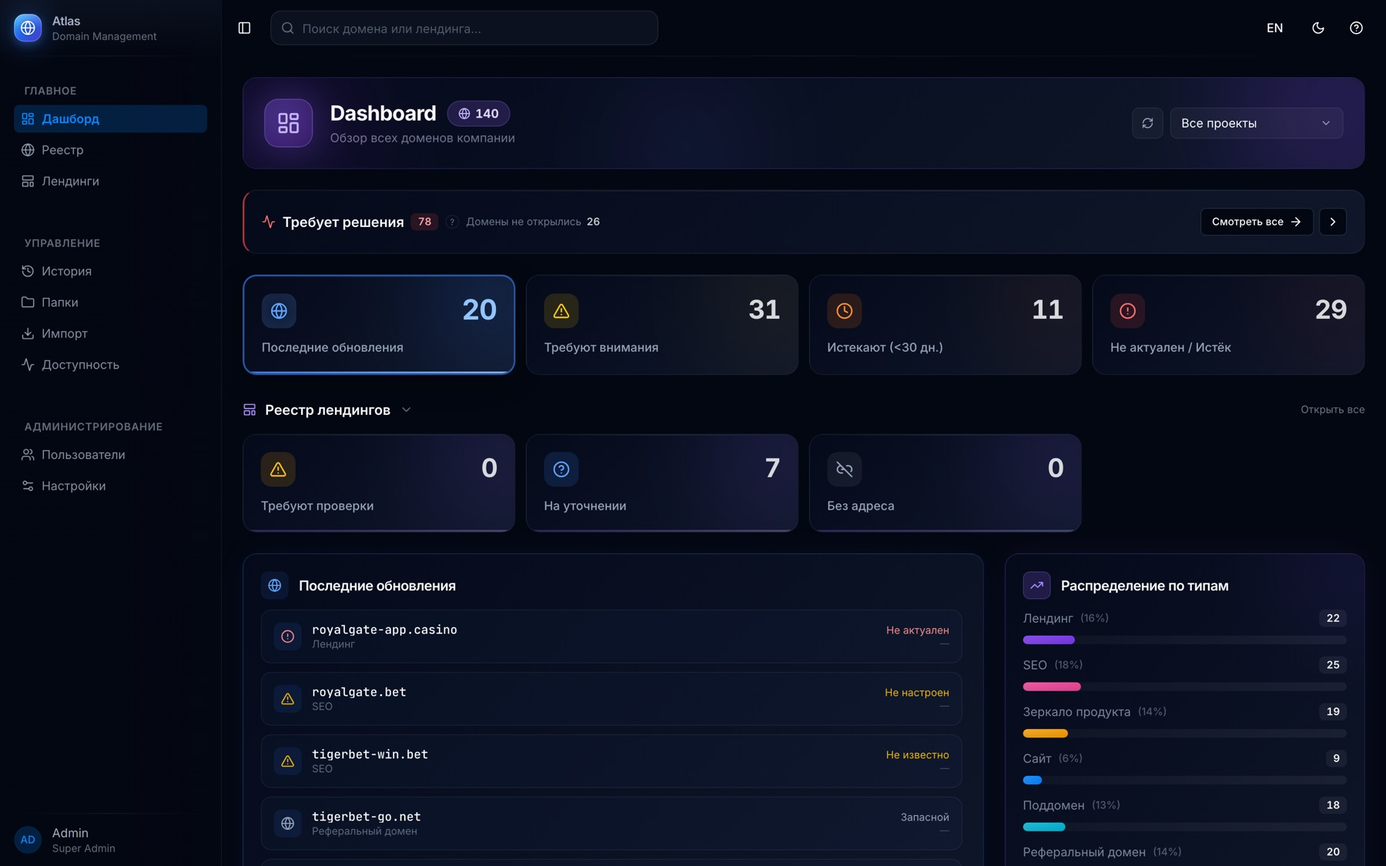
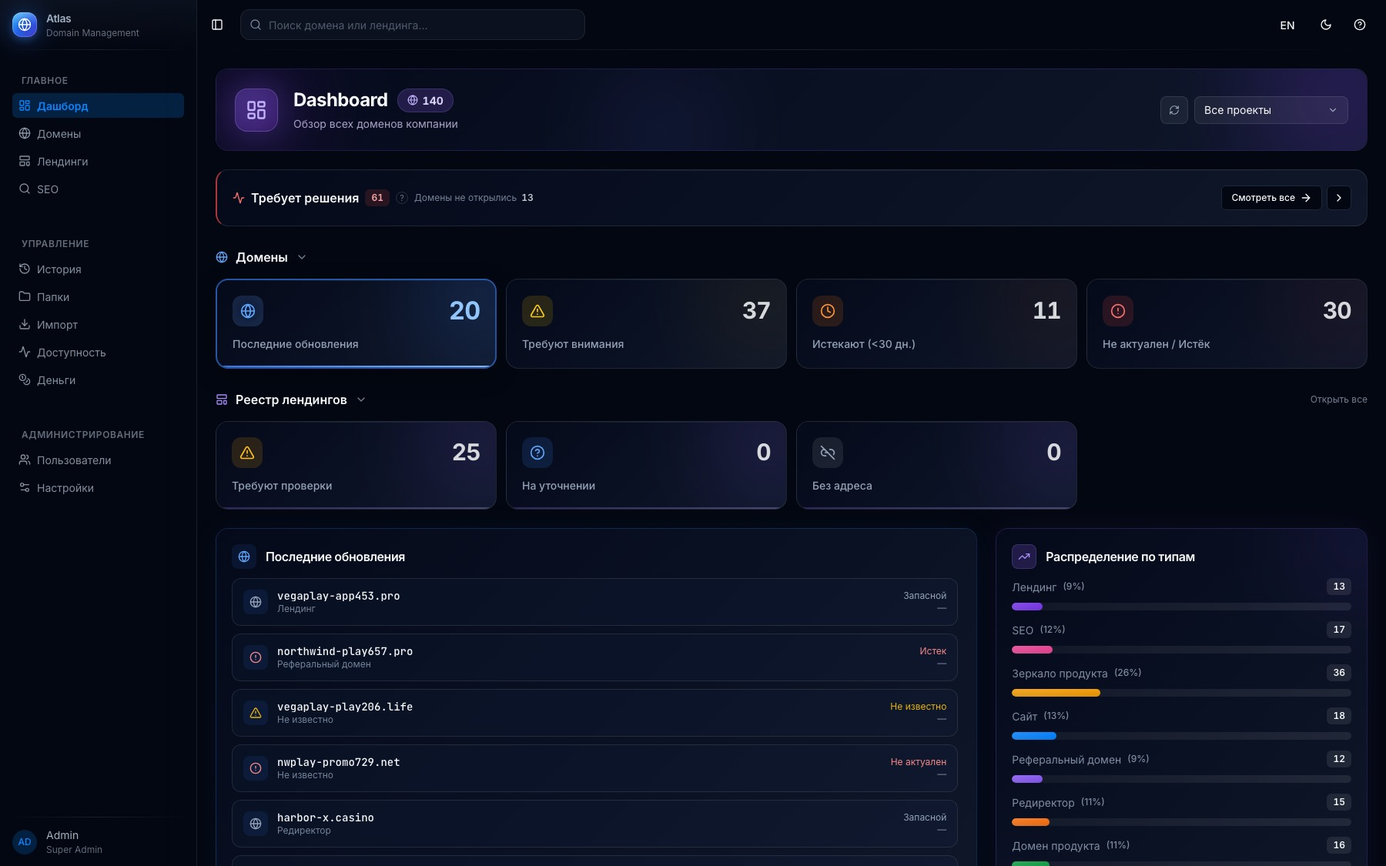
landing: демо-данные на всех скринах, экран «Доступность», версия v2 для сравнения
На скриншотах были видны настоящие названия проектов холдинга — Atenspace, Trafmasters,
Quickrivals, OpenRTB, Earniq. Они зашиты в сид продукта, поэтому попали в кадр; хуже всего
было в og.jpg — это картинка превью, которую видно прямо в Telegram при отправке ссылки.
Страница уходит потенциальным покупателям, то есть посторонним.

Поднят локальный стенд, написан генератор демо-данных на выдуманных брендах (Northwind,
Vega Partners, Lumen Ads, Orbit Media, Harbor Play): 140 доменов, 25 лендингов, 16 папок,
состояния расставлены так, чтобы все семь плиток «Доступности» были ненулевыми. Переснято
всё: реестр, дашборд, папки, новая «Доступность» и og.jpg. Три неиспользуемых скрина,
которые тоже светили боевые имена, удалены.

Вернулась секция «Доступность» с описанием: семь плиток — семь способов потерять домен,
клик оставляет в списке только её строки, вторая ступень отвечает «почему именно».
В схеме редиректоров боевые домены заменены на демо из той же вселенной.

Мобилка: отступы секций 96px → 60px, схема связки перерисована в более узкий viewBox,
чтобы подписи не ужимались до нечитаемых 8px.

Добавлена v2.html — тестовая версия для сравнения, по просьбе Denis. Та же палитра и те же
скрины, но без панелей в рамках: текст на фоне, разделители — воздух и волосяная линия,
шесть блоков свёрнуты в три, двадцать пять буллетов — в девять фраз. На телефоне 4564px
против 9499px у основной версии. Боевую страницу не трогает, живёт по адресу /v2.
[…]

diff --git a/v2.html b/v2.html
@@ -1,0 +1,293 @@
+<!doctype html>
+<html lang="ru">
+<head>
+<meta charset="utf-8">
+<meta name="viewport" content="width=device-width, initial-scale=1">
+<title>Domain Control Panel — версия v2</title>
+<meta name="description" content="Тестовая версия страницы: короче и без панелей. Реестр доменов, зеркал и лендингов, который сам говорит, что сломалось.">
+<link rel="icon" type="image/svg+xml" href="/favicon.svg">
+<meta name="robots" content="noindex">
+<style>
+  :root{
+    --ground: hsl(224 71% 4%);
+    --line: hsl(217 33% 19%);
+    --line-soft: hsl(217 33% 14%);
+    --ink: hsl(210 40% 98%);
+    --muted: hsl(215 20% 66%);
+    --faint: hsl(215 16% 48%);
+    --accent: hsl(210 100% 52%);
+    --accent-2: hsl(210 100% 66%);
+    --ok:#3fb950; --crit:#f85149;
+    --mono: ui-monospace,"SF Mono","JetBrains Mono",Menlo,Consolas,monospace;
+    --sans: system-ui,-apple-system,"Segoe UI",Roboto,Helvetica,Arial,sans-serif;
+  }
+  *{box-sizing:border-box}
+  html{scroll-behavior:smooth}
+  @media (prefers-reduced-motion: reduce){ html{scroll-behavior:auto} *{transition:none!important} }
+  body{margin:0;background:var(--ground);color:var(--ink);font-family:var(--sans);line-height:1.6;-webkit-font-smoothing:antialiased;
+    background-image:radial-gradient(54rem 38rem at 82% -12%, hsl(210 100% 52% / .14), transparent 60%);
+    background-repeat:no-repeat}
+  a{color:inherit}
+  :focus-visible{outline:2px solid var(--accent-2);outline-offset:3px;border-radius:4px}
+  .wrap{max-width:1060px;margin:0 auto;padding:0 28px}
+
+  header.top{display:flex;align-items:center;justify-content:space-between;gap:16px;padding:22px 0}
+  .brand{display:flex;align-items:center;gap:11px;font-weight:700}
+  .brand .dot{width:24px;height:24px;border-radius:7px;background:linear-gradient(150deg,var(--accent-2),var(--accent));display:flex;align-items:center;justify-content:center}
+  .brand .dot svg{width:14px;height:14px;color:#fff;fill:none;stroke:currentColor;stroke-width:2}
+  .brand .name{font-family:var(--mono);font-size:14px}
+  .langtog{display:inline-flex;border:1px solid var(--line);border-radius:999px;overflow:hidden;font-family:var(--mono);font-size:12px}
+  .langtog button{background:transparent;border:0;color:var(--faint);padding:6px 12px;cursor:pointer}
+  .langtog button.on{background:hsl(210 100% 52% / .15);color:var(--accent)}
+
+  /* Ритм: одна мысль — один блок, разделённый воздухом и волосяной линией.
+     Панелей с рамками в этой версии нет совсем — ради этого она и собрана. */
+  section{padding:76px 0;border-top:1px solid var(--line-soft)}
+  section:first-of-type{border-top:0}
+  .eyebrow{font-family:var(--mono);font-size:12px;letter-spacing:.18em;text-transform:uppercase;color:var(--accent);margin:0 0 16px}
+  h1{font-size:clamp(36px,5.4vw,60px);line-height:1.08;letter-spacing:-.035em;font-weight:800;margin:0 0 22px;text-wrap:balance}
+  h1 .hl{color:var(--accent-2)}
+  h2{font-size:clamp(26px,3.4vw,38px);line-height:1.15;letter-spacing:-.025em;margin:0 0 18px;text-wrap:balance}
+  .lede{font-size:clamp(17px,1.7vw,20px);color:var(--muted);margin:0 0 30px;max-width:30em;text-wrap:balance}
+  .say{font-size:clamp(17px,1.8vw,19px);color:var(--muted);max-width:34em;margin:0;text-wrap:pretty}
+
+  .btn{display:inline-flex;align-items:center;gap:9px;font-weight:650;font-size:16px;text-decoration:none;padding:14px 24px;border-radius:10px;
+    background:var(--accent);color:#04101f;box-shadow:0 10px 30px hsl(210 100% 52% / .3);transition:background .2s,transform .15s}
+  .btn:hover{background:var(--accent-2);transform:translateY(-1px)}
+
+  .nums{display:flex;flex-wrap:wrap;gap:6px 26px;margin:0 0 32px;font-family:var(--mono);font-size:14px;color:var(--muted)}
+  .nums b{font-size:19px;font-weight:700;color:var(--ink);margin-right:6px}
+  .nums .crit b{color:var(--crit)}
+
+  .shot{border-radius:12px;overflow:hidden;box-shadow:0 36px 80px -30px hsl(224 71% 1% / .95), 0 0 0 1px hsl(210 40% 98% / .07)}
+  .shot img{display:block;width:100%;height:auto}
+  .cap{font-family:var(--mono);font-size:12.5px;color:var(--faint);margin:14px 0 0}
+
+  /* «03:12» — две колонки без рамок, разделённые линией */
+  .night{display:grid;grid-template-columns:1fr 1fr;gap:0 48px;margin-top:8px}
+  .night .col{padding:0 0 0 0}
+  .night .col+.col{border-left:1px solid var(--line-soft);padding-left:48px}
+  .night .ttl{font-family:var(--mono);font-size:11px;letter-spacing:.16em;text-transform:uppercase;color:var(--faint);margin:0 0 18px}
+  .night .col+.col .ttl{color:var(--accent)}
+  .night ol{list-style:none;margin:0;padding:0;display:flex;flex-direction:column;gap:14px}
+  .night li{display:grid;grid-template-columns:54px 1fr;gap:12px;align-items:baseline}
+  .night .t{font-family:var(--mono);font-size:13px;color:var(--faint)}
+  .night .col+.col .t{color:var(--accent-2)}
+  .night .e{font-size:16px;color:var(--muted)}
+  .night .sum{margin:22px 0 0;font-size:15px;color:var(--faint)}
+  .night .col+.col .sum{color:var(--ink)}
+
+  /* три мысли вместо шести панелей */
+  .three{display:flex;flex-direction:column;gap:46px}
+  .three h3{font-size:clamp(20px,2.3vw,24px);letter-spacing:-.02em;margin:0 0 12px;text-wrap:balance}
+  .three p{margin:0 0 7px;color:var(--muted);font-size:16.5px;max-width:46em;text-wrap:pretty}
+  .three .tag{font-family:var(--mono);font-size:11px;letter-spacing:.16em;text-transform:uppercase;color:var(--accent);display:block;margin:0 0 10px}
+
+  .deliver{display:grid;grid-template-columns:repeat(2,1fr);gap:22px 48px;margin-top:6px}
+  .deliver h4{margin:0 0 5px;font-size:16.5px}
+  .deliver p{margin:0;color:var(--muted);font-size:15px}
+
+  .close{text-align:center}
+  .close p{color:var(--muted);margin:0 auto 26px;max-width:30em}
+  footer{padding:30px 0 52px;color:var(--faint);font-family:var(--mono);font-size:12px;display:flex;justify-content:space-between;gap:16px;flex-wrap:wrap;border-top:1px solid var(--line-soft)}
+
+  @media (max-width:760px){
+    .night{grid-template-columns:1fr;gap:34px}
+    .night .col+.col{border-left:0;border-top:1px solid var(--line-soft);padding-left:0;padding-top:30px}
+    .deliver{grid-template-columns:1fr}
+    section{padding:52px 0}
+    .wrap{padding:0 20px}
+  }
+</style>
+</head>
+<body>
+<div class="wrap">
+  <header class="top">
+    <div class="brand">
+      <span class="dot" aria-hidden="true"><svg viewBox="0 0 24 24" aria-hidden="true"><circle cx="12" cy="12" r="9"/><path d="M3 12h18M12 3c2.5 2.7 3.8 5.7 3.8 9s-1.3 6.3-3.8 9c-2.5-2.7-3.8-5.7-3.8-9S9.5 5.7 12 3z"/></svg></span>
+      <span class="name">Domain&nbsp;Control&nbsp;Panel</span>
+    </div>
+    <div class="langtog"><button data-l="ru" class="on">RU</button><button data-l="en">EN</button></div>
+  </header>
+</div>
+
+<section>
+  <div class="wrap">
+    <h1>Реестр доменов, который <span class="hl">сам говорит, что сломалось</span></h1>
+    <p class="lede">Сотни доменов, зеркал и лендингов в одной панели. Проверяется круглосуточно, пишет в Telegram, когда что-то отвалилось, и помнит, кто что менял.</p>
+    <p class="nums">
+      <span><b>1546</b>доменов</span>
+      <span class="crit"><b>149</b>не открылись</span>
+      <span class="crit"><b>27</b>отключены реестром</span>
+    </p>
+    <p style="margin:0 0 34px"><a class="btn" href="https://t.me/denis_pdm">Написать в Telegram <span>→</span></a></p>
+    <div class="shot"><img src="/shot-registry.jpg" alt="Реестр доменов – Domain Control Panel"></div>
+  </div>
+</section>
+
+<section>
+  <div class="wrap">
+    <p class="eyebrow">Зачем это нужно</p>
+    <h2>Домен лёг в 03:12. Когда вы об этом узнаете?</h2>
+    <p class="say" style="margin-bottom:38px">Разница между колонками — это ночь трафика и разговор с байером наутро.</p>
+    <div class="night">
+      <div class="col">
+        <p class="ttl">Как обычно</p>
+        <ol>
+          <li><span class="t">03:12</span><span class="e">Зеркало перестало открываться</span></li>
+          <li><span class="t">—</span><span class="e">тишина</span></li>
+          <li><span class="t">09:40</span><span class="e">«почему вчера был ноль?» — в чате от байера</span></li>
+        </ol>
+        <p class="sum">Шесть часов трафика в никуда.</p>
+      </div>
+      <div class="col">
+        <p class="ttl">С панелью</p>
+        <ol>
+          <li><span class="t">03:13</span><span class="e">Telegram: «harbor-x441.life не открывается»</span></li>
+          <li><span class="t">03:14</span><span class="e">В карточке видно: истёк сертификат, хостинг ни при чём</span></li>
+          <li><span class="t">09:20</span><span class="e">Починили до утреннего трафика</span></li>
+        </ol>
+        <p class="sum">Минута на сообщение, утро — уже рабочее.</p>
+      </div>
+    </div>
+  </div>
+</section>
+
+<section>
+  <div class="wrap">
+    <p class="eyebrow">Что умеет</p>
+    <h2>Три вещи, ради которых это ставят</h2>
+    <div class="three" style="margin-top:34px">
+      <div>
+        <span class="tag">Порядок</span>
+        <h3>Реестр вместо таблицы, которую каждый правит по-своему</h3>
+        <p>Домены, зеркала и лендинги одним списком — с историей, кто что менял, и правкой сотен строк одним действием.</p>
+        <p>Семь кабинетов регистраторов подтягивают сроки и цены сами.</p>
+      </div>
+      <div>
+        <span class="tag">Поломки</span>
+        <h3>Что сломано снаружи — прямо сейчас, а не по итогам дня</h3>
+        <p>Проверка круглосуточно и из нужных стран. Код 200 не значит, что сайт жив: заданная строка на странице ловит заглушку хостера.</p>
+        <p>Сертификат, смена делегирования, блок-листы и статус у реестра — всё в том же экране.</p>
+      </div>
+      <div>
+        <span class="tag">Контроль</span>
+        <h3>Соседняя команда не увидит ваши домены</h3>
+        <p>Роли на каждый проект и приватные папки, права проверяются на сервере. Любое изменение видно в аудите.</p>
+        <p>Self-hosted и white-label: данные и бренд остаются вашими.</p>
+      </div>
+    </div>
+  </div>
+</section>
+
+<section>
+  <div class="wrap">
+    <p class="eyebrow">Мониторинг</p>
+    <h2>Один экран на вопрос «что сломано снаружи»</h2>
+    <p class="say" style="margin-bottom:34px">Семь плиток — семь способов потерять домен. Клик по плитке оставляет в списке только её строки, а вторая ступень отвечает «почему именно»: не резолвится, таймаут, ошибка сертификата.</p>
+    <div class="shot"><img src="/shot-availability.jpg" alt="Доступность – Domain Control Panel" loading="lazy"></div>
+    <p class="cap">Первичен домен: лёг сайт — легли и все адреса на нём, это одна проблема, а не десять</p>
+  </div>
+</section>
+
+<section>
+  <div class="wrap">
+    <p class="eyebrow">Поставка</p>
+    <h2>Что входит и как получить</h2>
+    <div class="deliver">
+      <div><h4>На вашей инфраструктуре</h4><p>Свой сервер или кластер — помогу поднять и настроить.</p></div>
+      <div><h4>White-label под ваш бренд</h4><p>Название, логотип и цвета — панель выглядит как ваш продукт.</p></div>
+      <div><h4>Доработки под задачи</h4><p>Дополнительные поля, интеграции и логика — под ваши процессы.</p></div>
+      <div><h4>Перенос, запуск и поддержка</h4><p>Помогу перевезти реестр из Excel и Google-таблиц.</p></div>
+    </div>
+    <p class="cap" style="margin-top:26px">Стоимость — под ваш объём и задачи. Обсудим в Telegram.</p>
+  </div>
+</section>
+
+<section>
+  <div class="wrap">
+    <div class="close">
+      <h2>Покажу вживую и отвечу на вопросы</h2>
+      <p>Напишите в Telegram — договоримся о демо и обсудим, как панель ложится под ваши процессы.</p>
+      <a class="btn" href="https://t.me/denis_pdm">Написать в Telegram <span>→</span></a>
+    </div>
+  </div>
+</section>
+
+<div class="wrap"><footer><span>Domain Control Panel</span><span>self-hosted · white-label</span></footer></div>
+
+<script>
+(function(){
+  var T={
+  "Реестр доменов, который":"A domain registry that",
+  "сам говорит, что сломалось":"tells you what broke",
+  "Сотни доменов, зеркал и лендингов в одной панели. Проверяется круглосуточно, пишет в Telegram, когда что-то отвалилось, и помнит, кто что менял.":"Hundreds of domains, mirrors and landings in one panel. Checked around the clock, messages you on Telegram the moment something drops, and remembers who changed what.",
+  "доменов":"domains",
+  "не открылись":"failed to open",
+  "отключены реестром":"suspended by the registry",
+  "Написать в Telegram":"Message on Telegram",
+  "Зачем это нужно":"Why you need it",
+  "Домен лёг в 03:12. Когда вы об этом узнаете?":"A domain went down at 03:12. When do you find out?",
+  "Разница между колонками — это ночь трафика и разговор с байером наутро.":"The gap between these columns is a night of traffic and an awkward morning chat with your buyer.",
+  "Как обычно":"The usual way",
+  "Зеркало перестало открываться":"A mirror stops opening",
+  "тишина":"silence",
+  "«почему вчера был ноль?» — в чате от байера":"«why was yesterday a zero?» – from the buyer, in chat",
+  "Шесть часов трафика в никуда.":"Six hours of traffic gone.",
+  "С панелью":"With the panel",
+  "Telegram: «harbor-x441.life не открывается»":"Telegram: «harbor-x441.life is not opening»",
+  "В карточке видно: истёк сертификат, хостинг ни при чём":"The card shows it: the certificate expired, hosting is fine",
+  "Починили до утреннего трафика":"Fixed before the morning traffic",
+  "Минута на сообщение, утро — уже рабочее.":"One minute to the alert, and the morning is already a working one.",
+  "Что умеет":"What it does",
+  "Три вещи, ради которых это ставят":"Three reasons people install it",
+  "Порядок":"Order",
+  "Реестр вместо таблицы, которую каждый правит по-своему":"A registry instead of a spreadsheet everyone edits their own way",
+  "Домены, зеркала и лендинги одним списком — с историей, кто что менял, и правкой сотен строк одним действием.":"Domains, mirrors and landings in one list — with a history of who changed what, and hundreds of rows edited in one action.",
+  "Семь кабинетов регистраторов подтягивают сроки и цены сами.":"Seven registrar accounts pull in dates and prices on their own.",
+  "Поломки":"Breakage",
+  "Что сломано снаружи — прямо сейчас, а не по итогам дня":"What is broken from the outside – right now, not at the end of the day",
+  "Проверка круглосуточно и из нужных стран. Код 200 не значит, что сайт жив: заданная строка на странице ловит заглушку хостера.":"Checked around the clock and from the countries you need. HTTP 200 does not mean the site is alive: a string you set on the page catches the hosting stub.",
+  "Сертификат, смена делегирования, блок-листы и статус у реестра — всё в том же экране.":"The certificate, a delegation change, block lists and registry status — all on the same screen.",
+  "Контроль":"Control",
+  "Соседняя команда не увидит ваши домены":"The team next door will not see your domains",
+  "Роли на каждый проект и приватные папки, права проверяются на сервере. Любое изменение видно в аудите.":"Roles per project and private folders, with permissions enforced on the server. Every change shows up in the audit log.",
+  "Self-hosted и white-label: данные и бренд остаются вашими.":"Self-hosted and white-label: the data and the brand stay yours.",
+  "Мониторинг":"Monitoring",
+  "Один экран на вопрос «что сломано снаружи»":"One screen for the question «what is broken from the outside»",
+  "Семь плиток — семь способов потерять домен. Клик по плитке оставляет в списке только её строки, а вторая ступень отвечает «почему именно»: не резолвится, таймаут, ошибка сертификата.":"Seven tiles — seven ways to lose a domain. Clicking a tile leaves only its rows in the list, and the second level answers «why exactly»: does not resolve, timeout, certificate error.",
+  "Первичен домен: лёг сайт — легли и все адреса на нём, это одна проблема, а не десять":"The domain comes first: if a site goes down, every URL on it goes down too — that is one problem, not ten",
+  "Поставка":"Delivery",
+  "Что входит и как получить":"What you get and how to get it",
+  "На вашей инфраструктуре":"On your infrastructure",
+  "Свой сервер или кластер — помогу поднять и настроить.":"Your own server or cluster — I will help bring it up and tune it.",
+  "White-label под ваш бренд":"White-label under your brand",
+  "Название, логотип и цвета — панель выглядит как ваш продукт.":"Name, logo and colours — the panel looks like your product.",
+  "Доработки под задачи":"Custom work for your cases",
+  "Дополнительные поля, интеграции и логика — под ваши процессы.":"Extra fields, integrations and logic — shaped to your processes.",
+  "Перенос, запуск и поддержка":"Migration, launch and support",
+  "Помогу перевезти реестр из Excel и Google-таблиц.":"I will help move the registry out of Excel and Google Sheets.",
+  "Стоимость — под ваш объём и задачи. Обсудим в Telegram.":"Pricing depends on your volume and your cases. Let us discuss it on Telegram.",
+  "Покажу вживую и отвечу на вопросы":"I will show it live and answer your questions",
+  "Напишите в Telegram — договоримся о демо и обсудим, как панель ложится под ваши процессы.":"Message me on Telegram – we will set up a demo and see how the panel fits your processes."
+  };
+  var items=[]; var w=document.createTreeWalker(document.body,NodeFilter.SHOW_TEXT,null); var n;
+  while(n=w.nextNode()){
+    var raw=n.nodeValue; if(!raw||!raw.trim()) continue;
+    var pn=n.parentNode&&n.parentNode.nodeName; if(pn==='SCRIPT'||pn==='STYLE') continue;
+    var key=raw.trim().replace(/\u00A0/g,' ');
+    if(Object.prototype.hasOwnProperty.call(T,key)) items.push({node:n,raw:raw,core:raw.trim(),en:T[key]});
+  }
+  function apply(lang){
+    items.forEach(function(o){ o.node.nodeValue = lang==='en' ? o.raw.replace(o.core,o.en) : o.raw; });
+    document.documentElement.lang=lang;
+    document.querySelectorAll('.langtog button').forEach(function(b){ b.classList.toggle('on', b.getAttribute('data-l')===lang); });
+    try{localStorage.setItem('lp_lang_v2',lang);}catch(e){}
+  }
+  document.querySelectorAll('.langtog button').forEach(function(b){ b.addEventListener('click',function(){ apply(b.getAttribute('data-l')); }); });
+  var saved='ru'; try{saved=localStorage.getItem('lp_lang_v2')||'ru';}catch(e){}
+  apply(saved==='en'?'en':'ru');
+})();
+</script>
+</body>
+</html>

diff --git a/index.html b/index.html
@@ -181,6 +181,9 @@
   @media (max-width:640px){
     /* Узкий экран: 32px по краям съедали седьмую часть ширины, а строка цифр в hero
        держалась `nowrap` и упиралась в край. Переполнения не было, но воздуха не было тоже. */
+    /* Восемь секций по 96px сверху и снизу — это почти два лишних экрана прокрутки. */
+    section{padding:60px 0}
+    section:last-of-type{padding:56px 0 60px}
     .wrap{padding:0 20px}
     header.top{flex-wrap:wrap;gap:12px}
     .stats .s{white-space:normal}
@@ -265,7 +268,7 @@
         <p class="ttl">С панелью</p>
         <ol>
           <li class="hit"><span class="t">03:12</span><span class="e">Зеркало перестало открываться</span></li>
-          <li class="hit"><span class="t">03:13</span><span class="e">Telegram: «bet-x.com не открывается»</span></li>
+          <li class="hit"><span class="t">03:13</span><span class="e">Telegram: «harbor-x441.life не открывается»</span></li>
           <li class="hit"><span class="t">03:14</span><span class="e">В карточке видно: истёк сертификат, хостинг ни при чём</span></li>
           <li class="hit"><span class="t">09:20</span><span class="e">Починили до утреннего трафика</span></li>
         </ol>
@@ -283,6 +286,18 @@
       <p>Домены, которые не открылись, сроки продления, лендинги на уточнении и последние изменения – на одном экране.</p>
     </div>
     <div class="shot" role="img" aria-label="Скриншот: дашборд"><img src="/shot-dashboard.jpg" alt="Дашборд – Domain Control Panel" loading="lazy"></div>
+  </div>
+</section>
+
+<section>
+  <div class="wrap">
+    <div class="sec-head" style="max-width:62em">
+      <p class="eyebrow"><svg class="ic" viewBox="0 0 24 24" aria-hidden="true"><path d="M3 12h4l3 8 4-16 3 8h4"/></svg>Мониторинг</p>
+      <h2>Один экран на вопрос «что сломано снаружи»</h2>
+      <p>Семь плиток — семь способов потерять домен: не открылся, уводит на чужое, истекает срок, попал в блок-лист, пропал маркер со страницы, сертификат, отключён реестром. Клик по плитке оставляет в списке только её строки, а вторая ступень отвечает «почему именно»: не резолвится, таймаут, ошибка сертификата, ответ 4xx.</p>
+    </div>
+    <div class="shot" role="img" aria-label="Скриншот: раздел «Доступность»"><img src="/shot-availability.jpg" alt="Доступность – Domain Control Panel" loading="lazy"></div>
+    <p class="shotcap">В списке первичен домен: если лёг сайт, легли и все адреса на нём — это одна проблема, а не десять</p>
   </div>
 </section>
 
@@ -368,21 +383,21 @@
     </div>
     <div class="mirror">
       <div class="pic">
-        <svg viewBox="0 0 520 210" role="img" aria-label="Схема: редиректор и привязанные к нему зеркала">
-          <g fill="none" stroke="hsl(217 33% 26%)" stroke-width="1.5">
-            <path d="M186 100 150 55M186 108 150 92M186 116 150 128M186 124 150 164M334 112l40 28"/>
+        <svg viewBox="0 0 440 206" role="img" aria-label="Схема: редиректор и привязанные к нему зеркала">
+          <g fill="none" stroke="hsl(217 33% 26%)" stroke-width="1.6">
+            <path d="M176 92 150 48M176 100 150 86M176 112 150 124M176 120 150 162M310 110l34 30"/>
           </g>
-          <rect x="186" y="88" width="148" height="44" rx="10" fill="hsl(210 100% 52% / .14)" stroke="hsl(210 100% 52% / .5)" stroke-width="1.5"/>
-          <text x="260" y="107" text-anchor="middle" fill="hsl(210 40% 98%)" font-family="ui-monospace,monospace" font-size="13">gsp-r1.com</text>
-          <text x="260" y="123" text-anchor="middle" fill="hsl(210 100% 66%)" font-family="ui-monospace,monospace" font-size="10">РЕДИРЕКТОР</text>
-          <g font-family="ui-monospace,monospace" font-size="11.5">
-            <circle cx="24" cy="52" r="4" fill="#3fb950"/><text x="36" y="56" fill="hsl(215 20% 62%)">gspot973.com</text>
-            <circle cx="24" cy="89" r="4" fill="#3fb950"/><text x="36" y="93" fill="hsl(215 20% 62%)">gspot271.com</text>
-            <circle cx="24" cy="125" r="4" fill="#f85149"/><text x="36" y="129" fill="hsl(215 20% 62%)">game-spot.bet</text>
-            <circle cx="24" cy="161" r="4" fill="#f85149"/><text x="36" y="165" fill="hsl(215 20% 62%)">g-spot.games</text>
-            <circle cx="382" cy="140" r="4" fill="#3fb950"/><text x="394" y="144" fill="hsl(215 20% 62%)">gspot691.com</text>
+          <rect x="176" y="86" width="134" height="42" rx="10" fill="hsl(210 100% 52% / .14)" stroke="hsl(210 100% 52% / .5)" stroke-width="1.6"/>
+          <text x="243" y="104" text-anchor="middle" fill="hsl(210 40% 98%)" font-family="ui-monospace,monospace" font-size="14">harbor-x.net</text>
+          <text x="243" y="120" text-anchor="middle" fill="hsl(210 100% 66%)" font-family="ui-monospace,monospace" font-size="11">РЕДИРЕКТОР</text>
+          <g font-family="ui-monospace,monospace" font-size="14">
+            <circle cx="14" cy="44" r="4.5" fill="#3fb950"/><text x="28" y="49" fill="hsl(215 20% 62%)">harborgames.pro</text>
+            <circle cx="14" cy="82" r="4.5" fill="#3fb950"/><text x="28" y="87" fill="hsl(215 20% 62%)">harbor-x441.life</text>
+            <circle cx="14" cy="120" r="4.5" fill="#f85149"/><text x="28" y="125" fill="hsl(215 20% 62%)">harborgames-app.io</text>
+            <circle cx="14" cy="158" r="4.5" fill="#f85149"/><text x="28" y="163" fill="hsl(215 20% 62%)">harbor-x370.bet</text>
+            <circle cx="344" cy="140" r="4.5" fill="#3fb950"/><text x="358" y="145" fill="hsl(215 20% 62%)">harborgames-win293.com</text>
           </g>
-          <text x="260" y="186" text-anchor="middle" fill="hsl(215 16% 46%)" font-family="ui-monospace,monospace" font-size="11">живых 3 из 5 · ближайшее истечение 14.10</text>
+          <text x="220" y="196" text-anchor="middle" fill="hsl(215 16% 46%)" font-family="ui-monospace,monospace" font-size="12.5">живых 3 из 5 · ближайшее истечение 14.10</text>
         </svg>
       </div>
       <div class="blk" style="background:transparent;border:0;padding:0">
@@ -516,7 +531,7 @@
   "«почему вчера был ноль?» – в чате от байера":"«why was yesterday a zero?» – from the buyer, in chat",
   "Шесть часов трафика в никуда, и причину ищут с нуля.":"Six hours of traffic gone, and the cause is hunted from scratch.",
   "С панелью":"With the panel",
-  "Telegram: «bet-x.com не открывается»":"Telegram: «bet-x.com is not opening»",
+  "Telegram: «harbor-x441.life не открывается»":"Telegram: «harbor-x441.life is not opening»",
   "В карточке видно: истёк сертификат, хостинг ни при чём":"The card shows it: the certificate expired, hosting is fine",
   "Починили до утреннего трафика":"Fixed before the morning traffic",
   "Минута на сообщение, утро – уже рабочее.":"One minute to the alert, and the morning is already a working one.",
@@ -594,6 +609,10 @@
   "Перенос данных, запуск и поддержка":"Data migration, launch and support",
   "Помогу перенести реестр из Excel и Google-таблиц, запустить и сопровождать.":"I will help move the registry out of Excel and Google Sheets, launch it and keep it running.",
   "Стоимость – под ваш объём и задачи. Обсудим в Telegram.":"Pricing depends on your volume and your cases. Let us discuss it on Telegram.",
+  "Мониторинг":"Monitoring",
+  "Один экран на вопрос «что сломано снаружи»":"One screen for the question «what is broken from the outside»",
+  "Семь плиток — семь способов потерять домен: не открылся, уводит на чужое, истекает срок, попал в блок-лист, пропал маркер со страницы, сертификат, отключён реестром. Клик по плитке оставляет в списке только её строки, а вторая ступень отвечает «почему именно»: не резолвится, таймаут, ошибка сертификата, ответ 4xx.":"Seven tiles — seven ways to lose a domain: it stopped opening, it redirects somewhere else, the renewal date is near, it landed on a block list, the page marker is gone, the certificate, suspended by the registry. Clicking a tile leaves only its rows in the list, and the second level answers «why exactly»: does not resolve, timeout, certificate error, a 4xx response.",
+  "В списке первичен домен: если лёг сайт, легли и все адреса на нём — это одна проблема, а не десять":"The domain comes first in the list: if a site goes down, every URL on it goes down too — that is one problem, not ten",
   "Связаться":"Get in touch",
   "Покажу вживую и отвечу на вопросы":"I will show it live and answer your questions",
   "Напишите в Telegram – договоримся о демо и обсудим, как панель ложится под ваши процессы.":"Message me on Telegram – we will set up a demo and see how the panel fits your processes."
